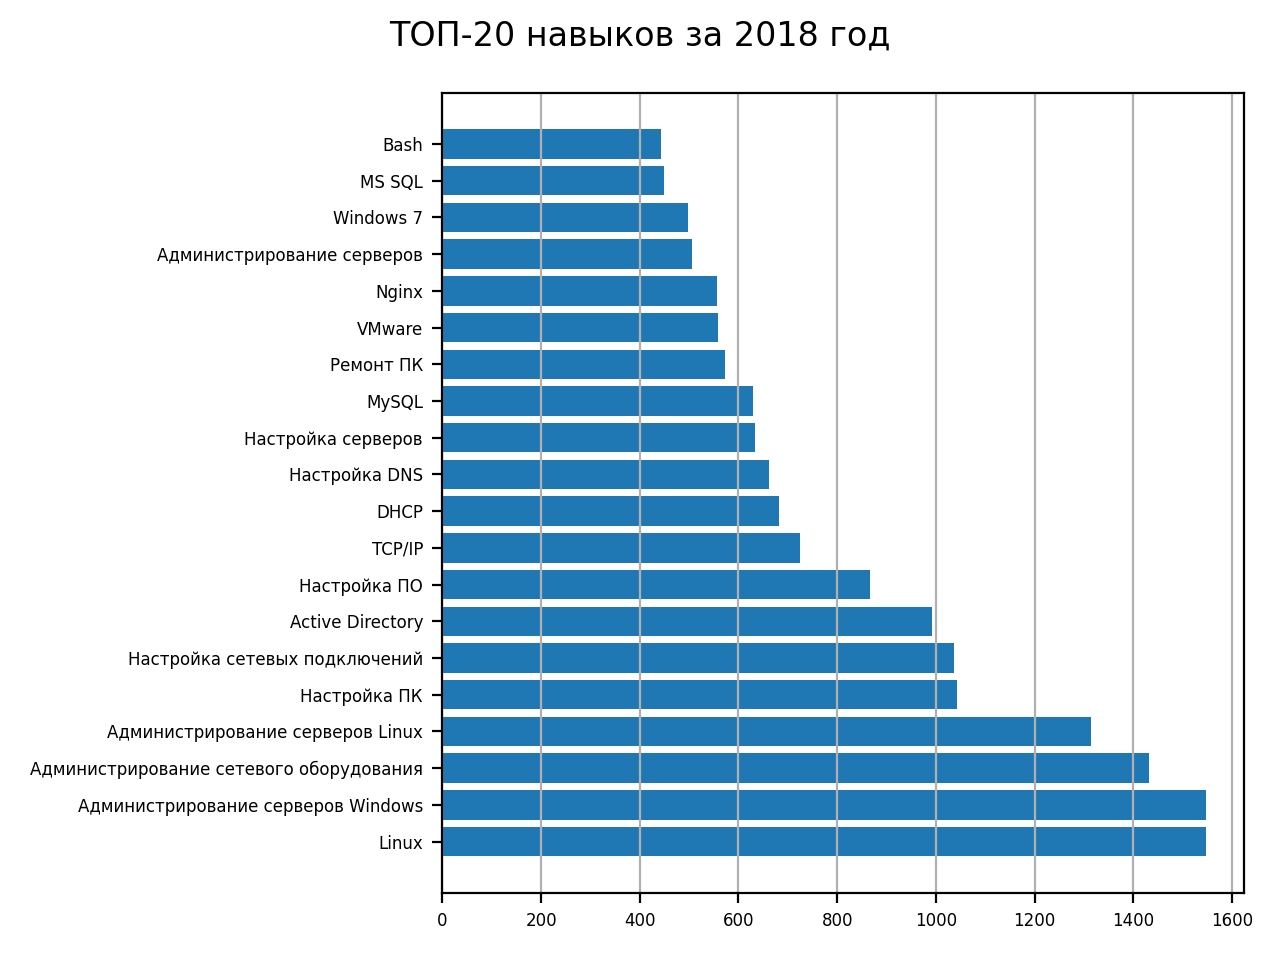
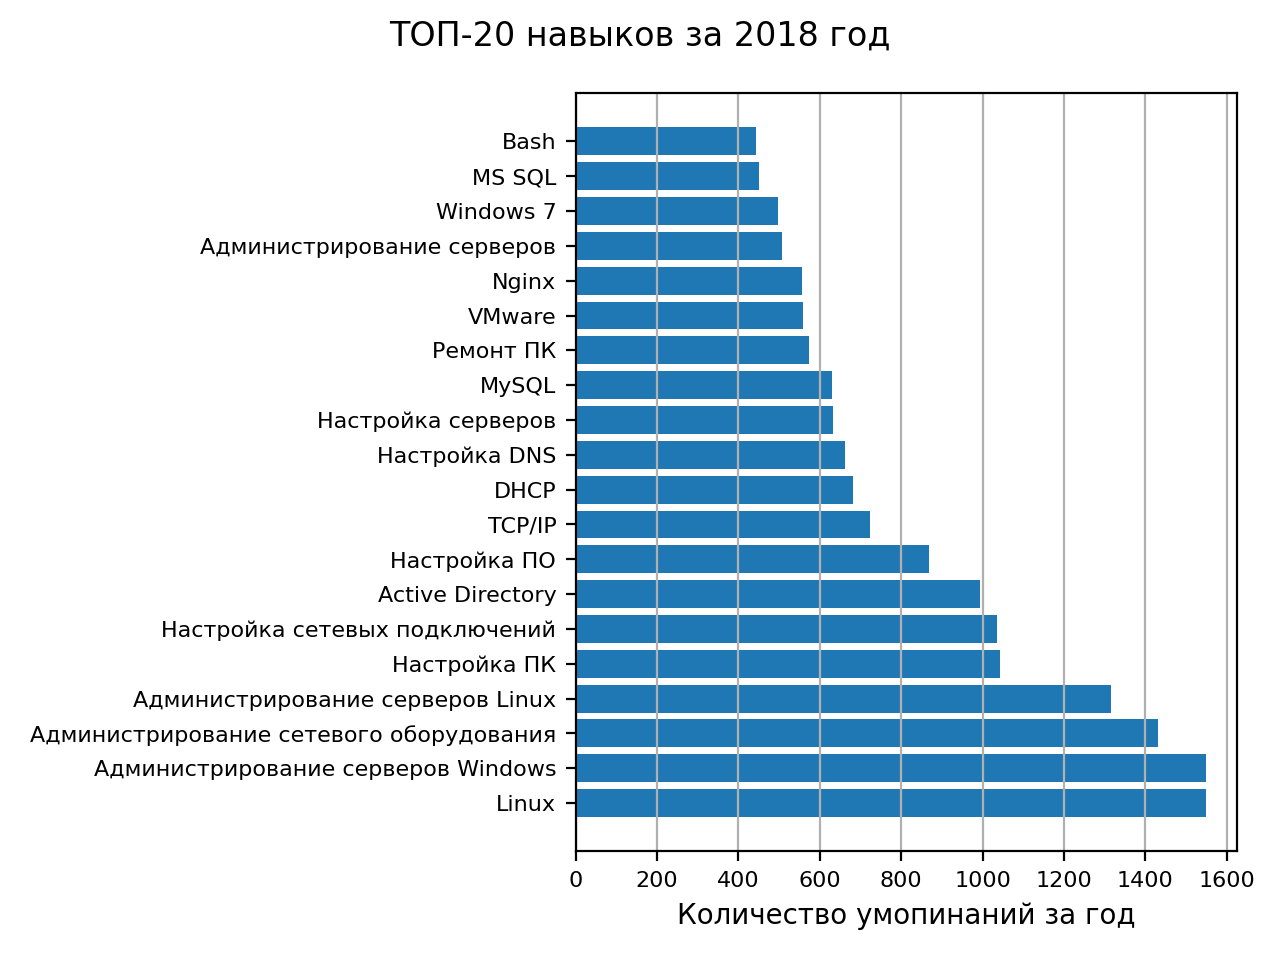
killed bags, sized text labels graphics

Changed region(s): [[0.0312, 0.0938, 1.0, 0.9688]]

diff --git a/scriptsData/htmlTablels/htmlFiles/filtred/percVacCities.html b/scriptsData/htmlTablels/htmlFiles/filtred/percVacCities.html
@@ -8,39 +8,35 @@
     <tbody>
         <tr>
             <td>Москва</td>
-            <td>33.83<br></td>
+            <td>28.64<br></td>
         </tr>
         <tr>
             <td>Санкт-Петербург</td>
-            <td>10.11<br></td>
+            <td>9.19<br></td>
         </tr>
         <tr>
             <td>Минск</td>
-            <td>3.51<br></td>
+            <td>3.3<br></td>
         </tr>
         <tr>
             <td>Новосибирск</td>
-            <td>2.38<br></td>
+            <td>2.3<br></td>
         </tr>
         <tr>
-            <td>Екатеринбург</td>
-            <td>2.22<br></td>
-        </tr>
-        <tr>
-            <td>Нижний Новгород</td>
-            <td>2.07<br></td>
-        </tr>
-        <tr>
-            <td>Киев</td>
-            <td>2.03<br></td>
+            <td>Казань</td>
+            <td>2.26<br></td>
         </tr>
         <tr>
             <td>Алматы</td>
-            <td>2.02<br></td>
+            <td>2.1<br></td>
+        </tr>
+        <tr>
+            <td>Екатеринбург</td>
+            <td>2.1<br></td>
         </tr>
         <tr>
             <td>Другие</td>
-            <td>41.83<br></td>
+            <td>50.11<br></td>
         </tr>
     </tbody>
 </table>

diff --git a/mysite/index/templates/index/last_vacancies.html b/mysite/index/templates/index/last_vacancies.html
@@ -18,9 +18,11 @@
                 const shortDescription = event.target.previousElementSibling.previousElementSibling;
                 const fullDescription = event.target.previousElementSibling;
                 if (fullDescription.style.display === "none" || fullDescription.style.display === "") {
+                    shortDescription.style.display = "none";
                     fullDescription.style.display = "inline";
                     event.target.textContent = "Свернуть";
                 } else {
+                    shortDescription.style.display = "inline";
                     fullDescription.style.display = "none";
                     event.target.textContent = "Читать полностью";
                 }

diff --git a/mysite/index/templates/index/general.html b/mysite/index/templates/index/general.html
@@ -11,7 +11,7 @@
 {% for item in data.not_skills %}
 <p class="menu_title">{{item.title}}</p>
 <div class="hidden_info">
-    <img class="graphic" width="700" height="500" src="{{item.image.url}}">
+    <img class="graphic" src="{{item.image.url}}">
     <div class="table-container">
         <p>{{item.text|safe}}</p>
     </div>
@@ -19,9 +19,9 @@
 {% endfor %}
 
 {% for skill in data.skills %}
-<p class="menu_title">{{skill.title}}</p>
+<a class="menu_title">{{skill.title}}</a>
 <div class="hidden_info">
-    <img class="graphic" width="700" height="500" src="{{skill.image.url}}">
+    <img class="graphic" src="{{skill.image.url}}">
     <div class="table-container">
         <p>{{skill.text|safe}}</p>
     </div>

diff --git a/mysite/index/static/index/css/page.css b/mysite/index/static/index/css/page.css
@@ -29,10 +29,9 @@ h2 {
 }
 
 .sidebar_list {
-    list-style: none;
     margin: 0;
-    padding-top: 30px;
-    padding-left: 30px;
+    padding-top: 10px;
+    padding-left: 35px;
 }
 
 .item_sidebar_list {
@@ -47,6 +46,9 @@ h2 {
 }
 
 #navigation-title {
+    margin-top: 30px;
+    margin-left: 40px;
+    list-style: none;
     text-decoration: none;
     color: #000000;
     font-size: 30px;
@@ -54,7 +56,7 @@ h2 {
 }
 
 ul li a:hover {
-    color: #0056b3;
+    color: #0069d9;
 }
 
 .sidebar {
@@ -110,6 +112,12 @@ ul li a:hover {
     padding: 1rem;
     padding-left: 40px;
 }
+
+.graphic {
+    width: 800px;
+    height: 600px;
+}
+
 
 @media (max-width: 768px) {
     .container {

diff --git a/mysite/index/templates/base.html b/mysite/index/templates/base.html
@@ -16,9 +16,8 @@
 <body>
     <div class="container">
         <nav class="sidebar">
-
+            <p class="item_sidebar_list" id="navigation-title">Навигация</p>
             <ul class="sidebar_list">
-                <li class="item_sidebar_list" id="navigation-title">Навигация</li>
                 <li class="item_sidebar_list"><a class="a_item_sidebar_list" href="../">Главная страница</a></li>
                 <li class="item_sidebar_list"><a class="a_item_sidebar_list" href="../general/">Общая статистика</a>
                 </li>

diff --git a/mysite/index/templates/index/demand.html b/mysite/index/templates/index/demand.html
@@ -10,7 +10,7 @@
 {% for item in data %}
 <p class="menu_title">{{item.title}}</p>
 <div class="hidden_info">
-    <img class="graphic" width="700" height="500" src="{{item.image.url}}">
+    <img class="graphic" src="{{item.image.url}}">
     <div class="table-container">
         <p>{{item.text|safe}}</p>
     </div>

diff --git a/mysite/index/templates/index/geo.html b/mysite/index/templates/index/geo.html
@@ -10,7 +10,7 @@
 {% for item in data %}
 <p class="menu_title">{{item.title}}</p>
 <div class="hidden_info">
-    <img class="graphic" width="700" height="500" src="{{item.image.url}}">
+    <img class="graphic" src="{{item.image.url}}">
     <div class="table-container">
         <p>{{item.text|safe}}</p>
     </div>

diff --git a/mysite/index/templates/index/skills.html b/mysite/index/templates/index/skills.html
@@ -10,7 +10,7 @@
 {% for item in data %}
 <p class="menu_title">{{item.title}}</p>
 <div class="hidden_info">
-    <img class="graphic" width="700" height="500" src="{{item.image.url}}">
+    <img class="graphic" src="{{item.image.url}}">
     <div class="table-container">
         <p>{{item.text|safe}}</p>
     </div>

diff --git a/mysite/index/static/index/css/menu_info.css b/mysite/index/static/index/css/menu_info.css
@@ -23,7 +23,7 @@
 .menu_title {
     cursor: pointer;
     font-size: 20px;
-    color: #3496ff;
+    color: #228dff;
     margin: 5px 0;
     margin-bottom: 12px;
     transition: color 0.3s;

diff --git a/scriptsData/htmlTablels/create_table_html.py b/scriptsData/htmlTablels/create_table_html.py
@@ -41,5 +41,5 @@ if __name__ == "__main__":
                      "scriptsData/htmlTablels/htmlFiles/filtred/filtredAvgSalYears.html", ["Год", "Средняя зарплата (рубли)"])
     create_html_file("scriptsData/filtredStatistics/filtredCountYears.csv",
                      "scriptsData/htmlTablels/htmlFiles/filtred/filtredCountYears.html", ["Город", "Количество вакансий"])
-    create_html_file("scriptsData/generalStatistics/percVacCities.csv",
+    create_html_file("scriptsData/filtredStatistics/percCities.csv",
                      "scriptsData/htmlTablels/htmlFiles/filtred/percVacCities.html", ["Город", "Доля вакансий"])

diff --git a/scriptsData/graphics/scripts/get_skills_plot.py b/scriptsData/graphics/scripts/get_skills_plot.py
@@ -18,9 +18,9 @@ def get_plot_skills(data, path_plot):
             skills.append(item[0])
             counts.append(item[1])
         ax.barh(skills, counts)
-        ax.tick_params(axis='y', labelsize=6)
-        ax.tick_params(axis='x', labelsize=6)
-        ax.set_xlabel("Количество умопинаний за год", fontsize=8)
+        ax.tick_params(axis='y', labelsize=8)
+        ax.tick_params(axis='x', labelsize=8)
+        ax.set_xlabel("Количество умопинаний за год", fontsize=10)
         ax.grid(axis='x')
         plt.tight_layout()
         cur_path_plot = os.path.join(path_plot, f"{year}_skill_plot.png")

diff --git a/scriptsData/graphics/scripts/get_count_years.py b/scriptsData/graphics/scripts/get_count_years.py
@@ -6,10 +6,10 @@ def get_plot_count_years(ax, df):
     years = (df["published_at"])
     size = (df["size"] / 1000)
     ax.bar(years, size, width=0.7)
-    ax.set_ylabel("количесвто (тыс.)", fontsize=9)
-    ax.tick_params(axis='y', labelsize=7)
+    ax.set_ylabel("количесвто (тыс.)", fontsize=11)
+    ax.tick_params(axis='y', labelsize=9)
     ax.set_xticks(years, labels=years)
-    ax.tick_params(axis='x', labelsize=7, rotation=90)
+    ax.tick_params(axis='x', labelsize=9, rotation=90)
     ax.grid(axis='y')
 
 
